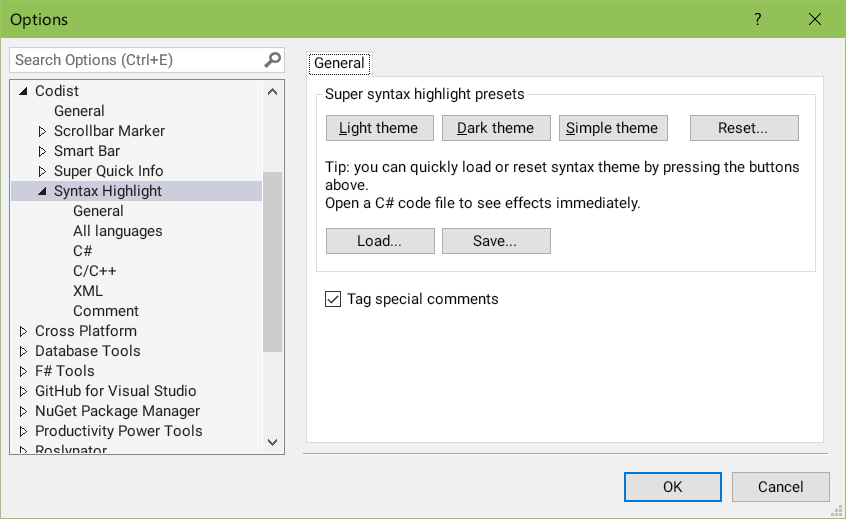
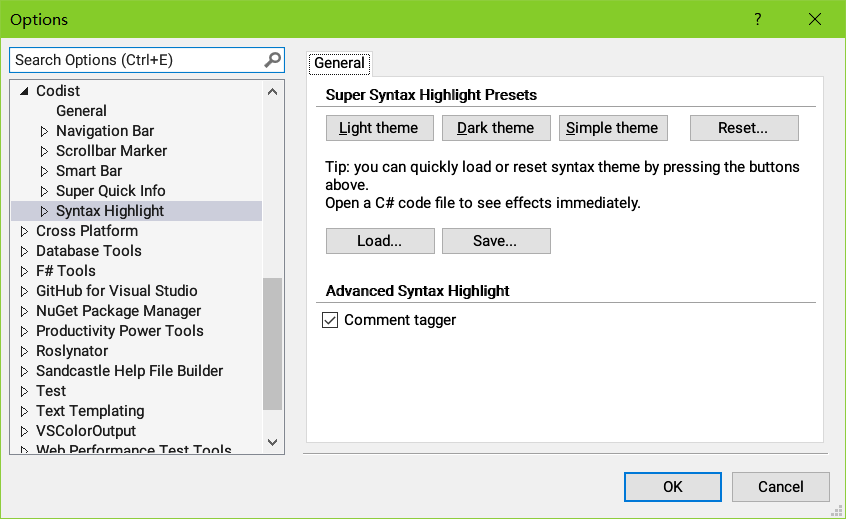
Version 4.3: + Added support to VS 2019 Preview (#58) + Added project scope symbol search in Navigation Bar - Fixed some configuration could not be saved - Fixed broken inherit XML Doc in version 4.2 - Fixed missing members in symbol search results in Navigation Bar ! Focus on text box when item in 

diff --git a/Codist/NaviBar/NaviBarFactory.cs b/Codist/NaviBar/NaviBarFactory.cs
@@ -12,7 +12,7 @@ namespace Codist.NaviBar
 	/// Overrides default navigator to editor.
 	/// </summary>
 	[Export(typeof(IWpfTextViewCreationListener))]
-	[ContentType(Constants.CodeTypes.CSharp)]
+	[ContentType(Constants.CodeTypes.Code)]
 	[TextViewRole(PredefinedTextViewRoles.Document)]
 	sealed partial class NaviBarFactory : IWpfTextViewCreationListener
 	{
@@ -30,8 +30,34 @@ namespace Codist.NaviBar
 
 		public void TextViewCreated(IWpfTextView textView) {
 			if (Config.Instance.Features.MatchFlags(Features.NaviBar)) {
-				textView.Properties.GetOrCreateSingletonProperty(() => new SemanticContext(textView));
-				new Overrider(textView);
+				if (textView.TextBuffer.ContentType.IsOfType(Constants.CodeTypes.CSharp)) {
+					textView.Properties.GetOrCreateSingletonProperty(() => new SemanticContext(textView));
+					new Overrider(textView);
+				}
+#if DEBUG
+				else {
+					AssociateFileCodeModelOverrider();
+				}
+#endif
+			}
+		}
+
+		static void AssociateFileCodeModelOverrider() {
+			Microsoft.VisualStudio.Shell.ThreadHelper.ThrowIfNotOnUIThread();
+			var model = CodistPackage.DTE2.ActiveDocument?.ProjectItem.FileCodeModel; // the active document can be null
+			if (model == null) {
+				return;
+			}
+			var codeElements = model.CodeElements;
+			foreach (EnvDTE80.CodeElement2 item in codeElements) {
+				System.Diagnostics.Debug.WriteLine(item.Name + "," + item.Kind + "," + item.StartPoint.Line + "," + item.StartPoint.LineCharOffset);
+				if (item.IsCodeType && item.Kind != EnvDTE.vsCMElement.vsCMElementDelegate) {
+					var ct = (item as EnvDTE.CodeType).Members;
+					for (int i = 1; i <= ct.Count; i++) {
+						var member = ct.Item(i);
+						System.Diagnostics.Debug.WriteLine(member.Name + "," + member.Kind + "," + member.StartPoint.Line + "," + member.StartPoint.LineCharOffset);
+					}
+				}
 			}
 		}
 

diff --git a/Codist/Config.cs b/Codist/Config.cs
@@ -3,14 +3,13 @@ using System.Collections.Generic;
 using System.ComponentModel;
 using System.Diagnostics;
 using System.IO;
-using System.Reflection;
 using System.Threading;
 using System.Windows.Media;
-using Newtonsoft.Json;
-using Codist.Classifiers;
-using Codist.SyntaxHighlight;
-using Codist.Margins;
 using AppHelpers;
+using Codist.Classifiers;
+using Codist.Margins;
+using Codist.SyntaxHighlight;
+using Newtonsoft.Json;
 
 namespace Codist
 {

diff --git a/Codist/Classifiers/CSharpClassifier.cs b/Codist/Classifiers/CSharpClassifier.cs
@@ -258,7 +258,7 @@ namespace Codist.Classifiers
 			}
 			var s = snapshot.GetText(itemSpan.Start, itemSpan.Length)[0];
 			if (s == '{' || s == '}') {
-				var node = unitCompilation.FindNode(itemSpan, true, true);
+				var node = unitCompilation.FindNode(itemSpan, true, false);
 				if (node is BaseTypeDeclarationSyntax == false
 					&& node is ExpressionSyntax == false
 					&& node is NamespaceDeclarationSyntax == false

diff --git a/Codist/Properties/AssemblyInfo.cs b/Codist/Properties/AssemblyInfo.cs
@@ -11,4 +11,4 @@ using System.Runtime.InteropServices;
 [assembly: AssemblyCulture("")]
 [assembly: ComVisible(false)]
 [assembly: AssemblyVersion("4.0.0.0")]
-[assembly: AssemblyFileVersion("4.2.0.2963")]
+[assembly: AssemblyFileVersion("4.3.0.3085")]

diff --git a/README.md b/README.md
@@ -28,7 +28,7 @@
   * Unnecessary code is marked strike-through.
   * Keywords are categorized and highlighted with various styles (e.g. `abstract` and `sealed`, `return` and `throw`, etc.).
   * Overriding methods (such as `ToString`) can be painted with gradient background color.
-  * Imported symbols (from external assemblies, e.g. `NotImplementedException`, `ToString`) can be marked with a different style (bold here)
+  * Imported symbols (from external assemblies, e.g. `NotImplementedException`, `ToString`) can be marked with a different style (bold here) from symbols in your code, which are also possible to be styled.
   * All the above styles are customizable.
  
   ![Syntax highlight](doc/highlight1.png) 
@@ -55,7 +55,7 @@
 
   From version 4.0 on, it is possible to identify symbols which are defined in your source code and which are imported from external assemblies.
 
-  You can customize this in the *Symbol Marker* tab of in the *C#* section of *Syntax Highlight*.
+  You can customize them in the *Symbol Marker* tab of in the *C#* section of *Syntax Highlight*. Style _My Type and Member_ is used for symbols from your code, and _Referenced Type and Member_ is used for symbols imported from external assemblies.
 
   ![Symbolmarker Options 2](doc/symbolmarker-options-2.png)
 
@@ -69,6 +69,8 @@
   To configure the comment tags, click the *Tags* tab, in the *Comment* sub-section of the *Syntax Highlight* section, where you can add, remove or modify comment tags. 
 
   ![Comment syntax highlight](doc/comment-tagger-options.png)
+
+  To disable comment tagger, uncheck the check box of _Comment Tagger_ on the _Syntax Highlight_ option page.
 
 * The syntax style of comments or C# XML Documentations could be changed too. You can make them semitrasparent to stand behind usual code lines by changing the *Opacity* or the *Font size* value of the corresponding syntax parts.
 
@@ -178,7 +180,7 @@ It brings commonly used operations for the selection, such as editing operations
 
   ![Smart Bar](doc/smart-bar.png)
 
-Buttons on the *Smart Bar* changes according to contexts.
+Buttons on the *Smart Bar* changes according to your selection.
 
   ![Smart Bar](doc/smart-bar-2.png)
 
@@ -192,13 +194,13 @@ From version 3.9 on, you can change the behavior of the Smart Bar.
 
 ## Scrollbar Marker
 
-The scrollbar can mark...
+Scollbar Marker draws extra glyphs and shapes on the scrollbar for the following syntax elements:
 
 * C# `class`/`struct`/`interface`/`enum` **declarations** (marked with a square and their names)
 * C# symbol match marker (matches symbol under the caret, marked with an aqua square)
 * C# instructions (`#if`, `#else`, `#region`, `#pragma`) (marked with a gray spot)
 * **Line numbers** (marked with gray dashed lines and numbers)
-* Special comments (marked with small squares)
+* Special comments tagged by comment tagger (marked with small squares)
 
   Please see screenshots in the above sections.
 
@@ -218,7 +220,7 @@ The scrollbar can mark...
 
   Symbol markers will be cleared when the solution is unloaded.
 
-  The style of symbol markers can be customized in options page of the *Syntax highlight* feature.
+  The style of symbol markers can be customized in options page of the *Syntax highlight* feature. The default colors are listed below.
 
   ![Symbol marker Options](doc/symbolmarker-options.png)
 
@@ -234,6 +236,8 @@ The scrollbar can mark...
 
   Clicking on the syntax node on the navigation bar will select the corresponding span in the editor. If you have enabled _Smart Bar_ as well, _Smart bar_ will appear offering operations that can be performed against the syntax node.
 
+  ![Navigation Bar Menu](doc/navigation-bar-select.png)
+
   Clicking on namespace or class definition syntax node will drop down a menu, showing members defined under it.
 
   You can type in the text box nearby the funnel icon to filter members listed in the menu. The buttons to the right hand side of the text box can be used to further filter the results.
@@ -241,6 +245,8 @@ The scrollbar can mark...
   ![Navigation Bar Menu](doc/navigation-bar-menu.png)
 
   Clicking on the "//" button at the left side of the navigation bar will pop up a text box. You can type some text in it and search for declarations defined in the active document code window.
+
+  From version 4.3 on, it is possible to expand the search scope to project-wide, by clicking the second button nearby the text box.
 
   ![Navigation Bar Search Declaration](doc/navigation-bar-search-declaration.png)
 
@@ -302,4 +308,4 @@ Your vote and feedback on the [Visual Studio Extension Marketplace](https://mark
 
 If you like _Codist_ and want to support the future development of it, you can [donate to the author](http://paypal.me/wmzuo).
 
-The recommended amount of donation is `$19.99`, nevertheless, any other amount of donations are appreciated.
+You can donate any amount of money as you like. The recommended amount of donation is `$19.99`.
